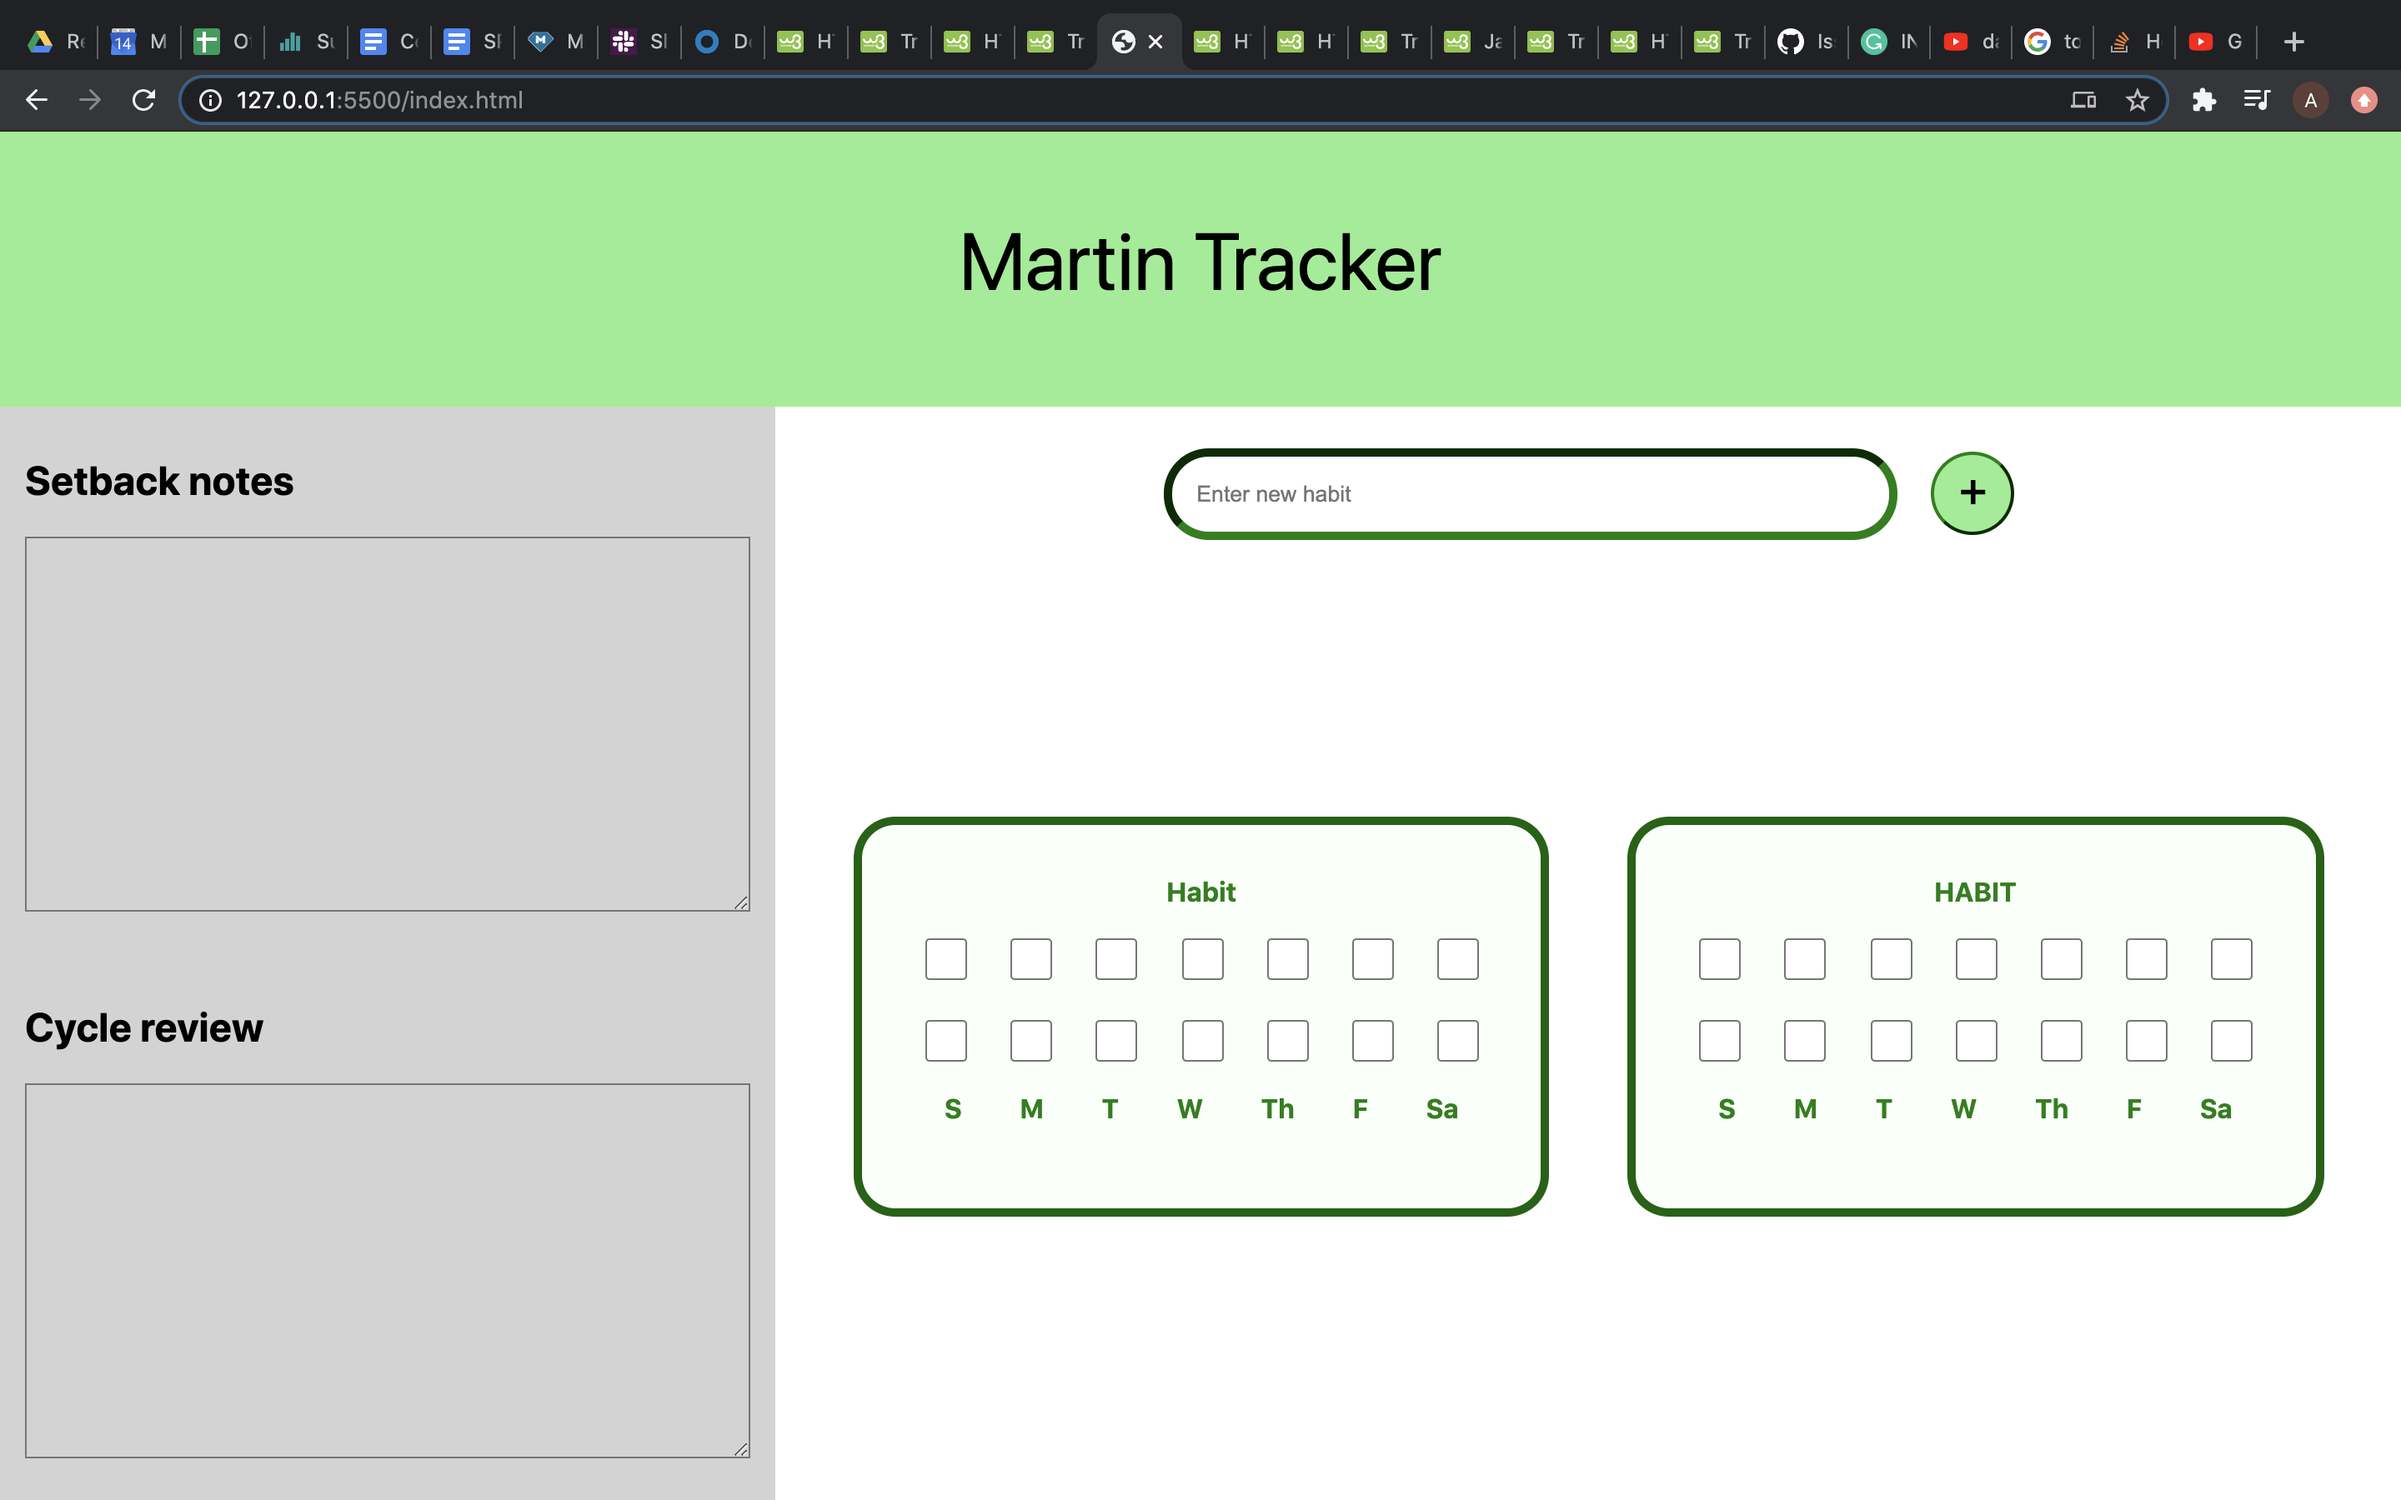
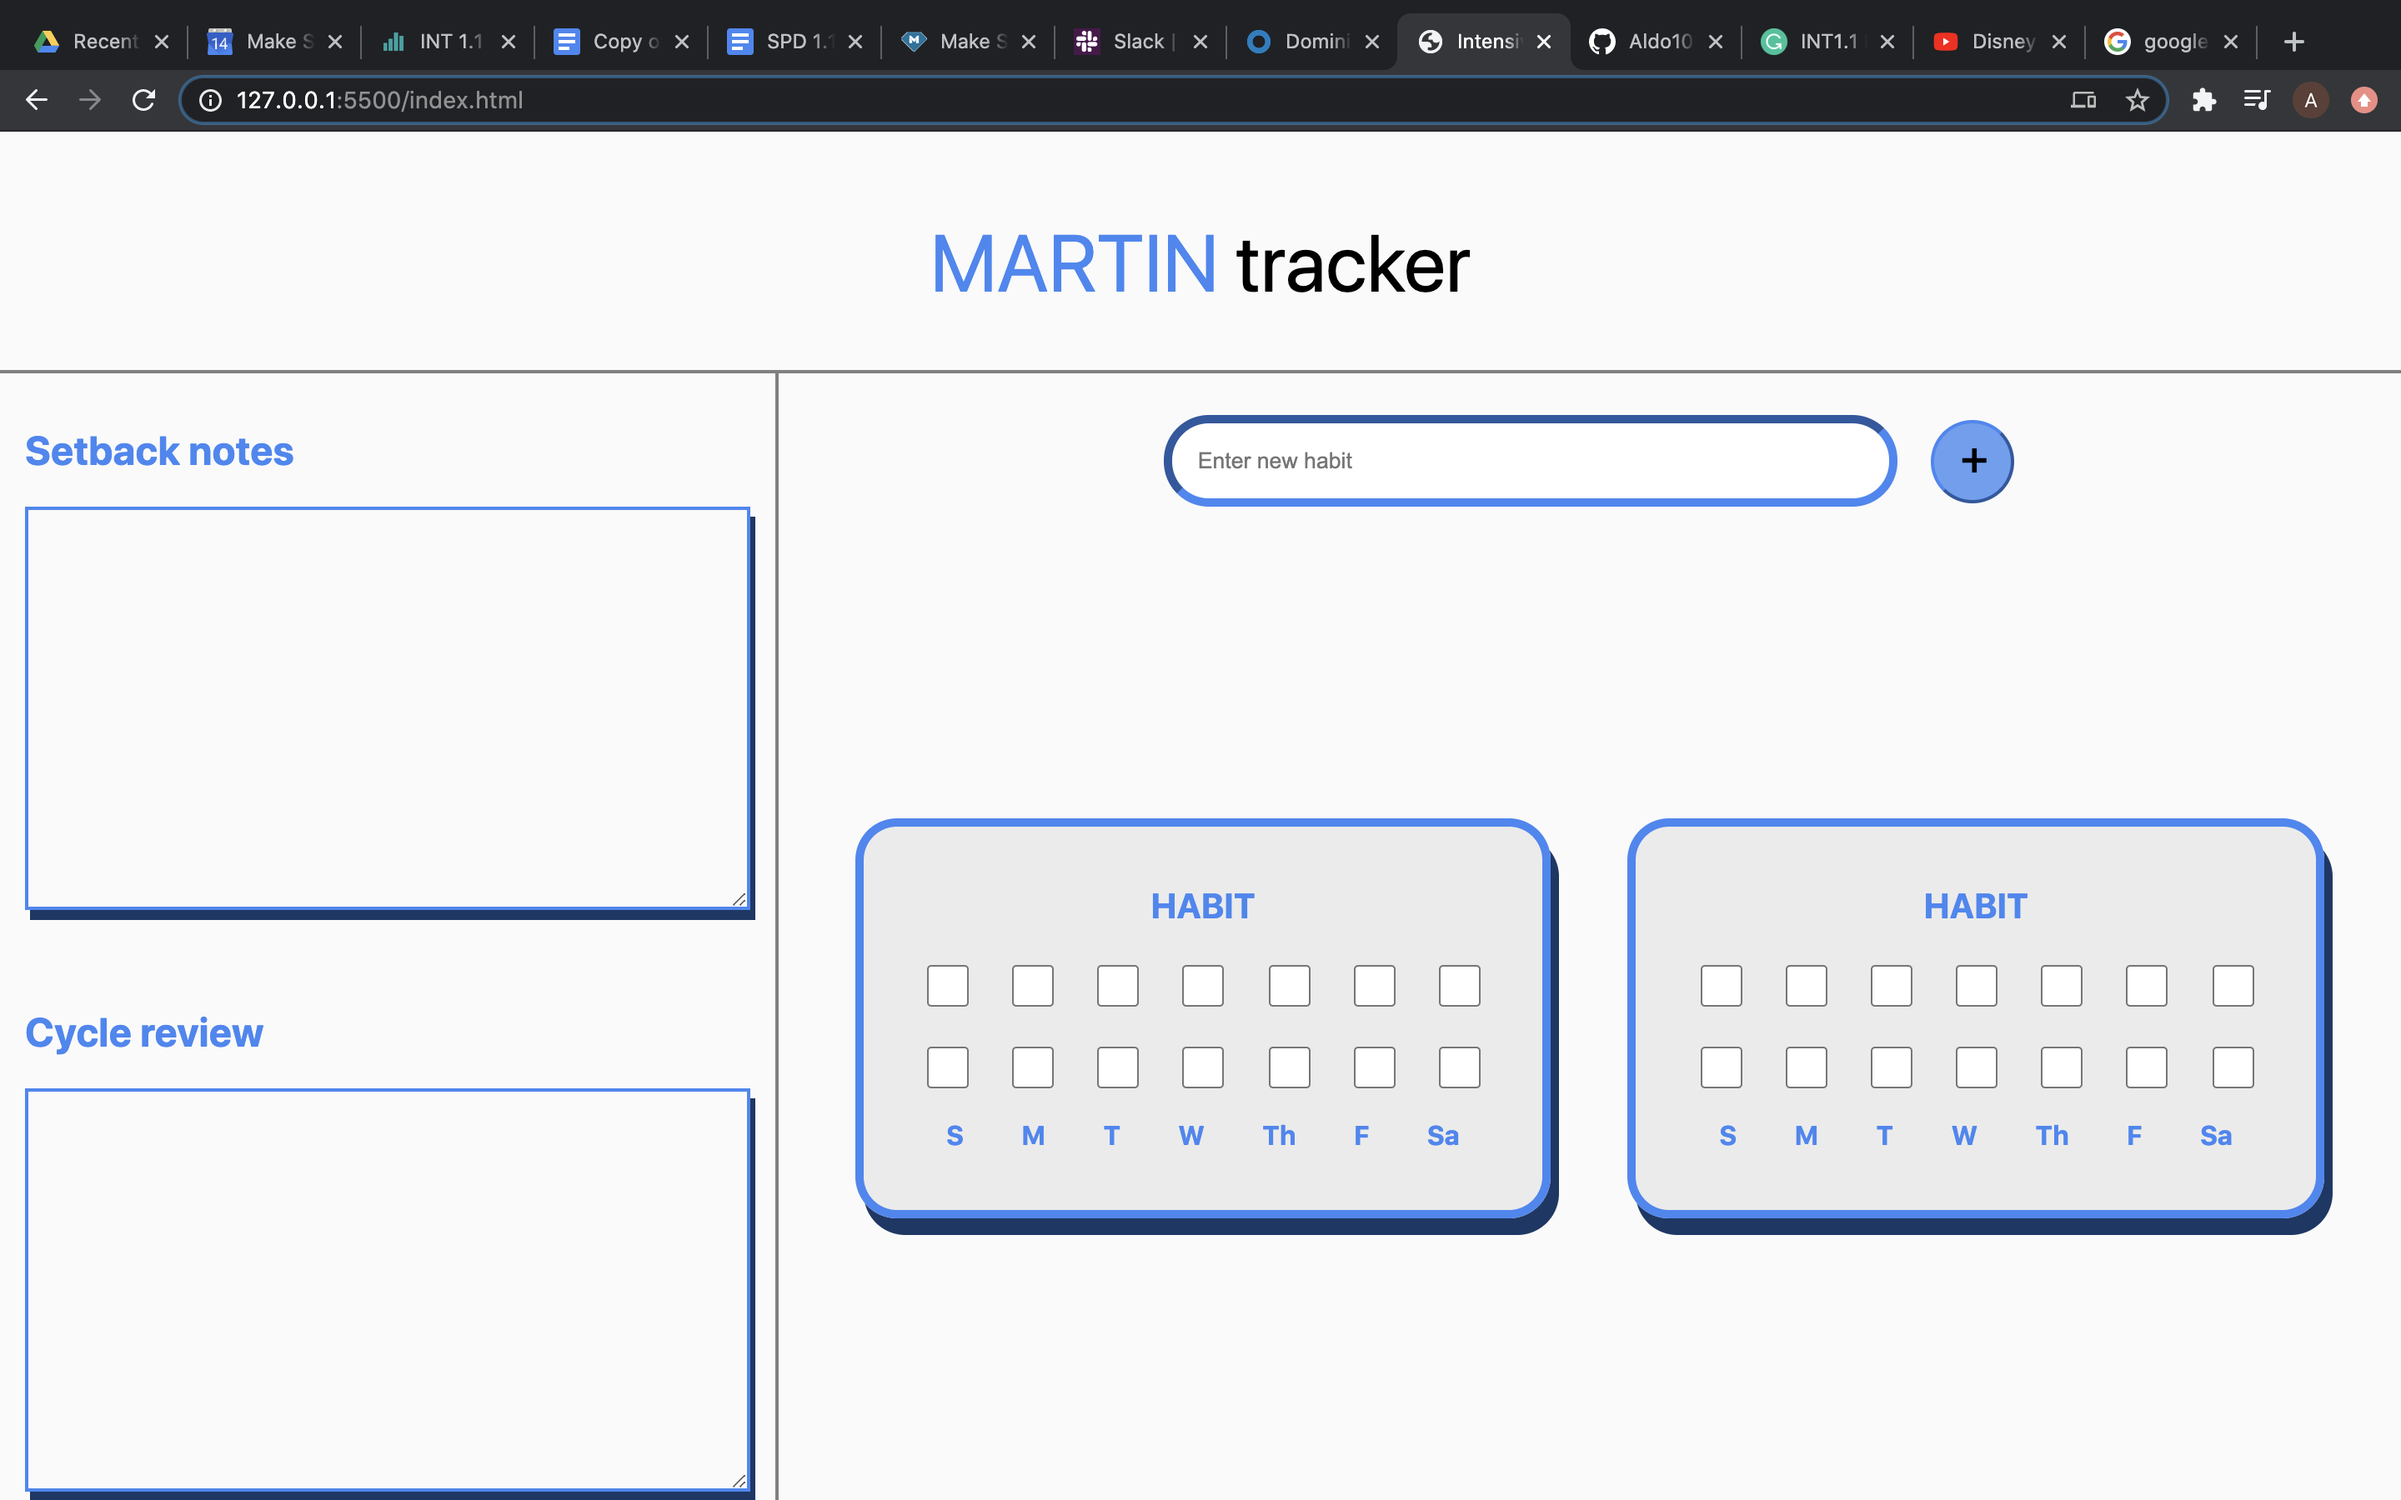
edited color scheme

diff --git a/style.css b/style.css
@@ -1,18 +1,21 @@
 body{
     margin: 0px;
     font-family: -apple-system, BlinkMacSystemFont, 'Segoe UI', Roboto, Oxygen, Ubuntu, Cantarell, 'Open Sans', 'Helvetica Neue', sans-serif;
-
+    /* background-color: ; */
 }
 /**************************************************************** 
     Stylizing navbar
 *****************************************************************/
 nav{
-    background-color: lightgreen;
-    padding: 20px;
-    min-height: 15vh; 
+    background-color: #fafafa;
+
+    padding: 10px;
+    max-height: 15vh; 
     display: flex;
-    flex-direction: column;
+    flex-direction: row;
     justify-content: center;
+    border: solid gray;
+    border-width: 0px 0px 2px 0px;
 }
 
 nav>h1{
@@ -21,7 +24,11 @@ nav>h1{
     width: auto;
     font-size: 3em;
     font-weight: 400;   
-    /* color: green; */
+    color: black;
+}
+
+#martin{
+    color: #4285F4;
 }
 
 
@@ -31,7 +38,7 @@ nav>h1{
 main{
     display: flex;
     flex-direction: row;
-    min-height: 80vh;
+    min-height: 85vh;
     height: auto;
 }
 
@@ -40,12 +47,14 @@ main{
 *****************************************************************/
 
 sidenav{
-    background-color: lightgray;
+    background-color: #fafafa;
     width: 33%;
     height: auto;
     display: flex;
     flex-direction: column;
     justify-content: stretch;
+    border: solid gray;
+    border-width: 0px 2px 0px 0px
 }
 
 sidenav > div{
@@ -55,12 +64,16 @@ sidenav > div{
     display: flex;
     flex-direction: column;
     justify-content: center;
+    color: #4285F4;
 }
 
 textarea{
     min-height: 70%;
     background-color: rgba(0,0,0,0);
-    font-size: 1.5em;
+    font-size: 1.3em;
+    color: white;
+    border: solid 2px #4285F4;
+    box-shadow: 3px 6px #193766;
 
 }
 
@@ -69,7 +82,7 @@ textarea{
 *****************************************************************/
 
 content{
-    /* background-color: aqua; */
+    background-color: #fafafa;
     width: 67%;
     /* height: auto; */
     padding: 15px;
@@ -82,23 +95,23 @@ content{
 
 
 .tracker{
-    background-color: rgba(203, 255, 203, 0.1);
+    background-color: #4286f40c;
     padding:15px;
     margin: 15px;
     width: 40%;
     height: 200px;
-    border: solid 5px darkgreen;
-    color: green;
+    border: solid 5px #4285F4;
+    color: #4285F4;
     font-weight: bold;
-    border-radius: 25px;;
+    border-radius: 25px;
+    box-shadow: 5px 10px #193766;
 }
 
 .tracker > p{
     text-align: center;
+    font-size: 1.3em;
 }
-.tracker > p{
-    font-size: 1em;
-}
+
 
 .marker-row{
     display: flex;
@@ -107,7 +120,7 @@ content{
 }
 
 .marker-row > input{
-    background-color: #fff;
+    background-color: #fafafa;
     border: 1px solid #ccc;
     border-radius: 50%;
     cursor: pointer;
@@ -140,8 +153,9 @@ content{
     padding: 15px;
     margin: 10px;
     border-radius: 30px;
-    border-color: green;
+    border-color: #4285F4;
     border-width: 5px;
+    /* background-color: lightgreen;   */
 }
 #new-habit-section > button{
     padding: 15px;
@@ -154,8 +168,8 @@ content{
     flex-direction: column;
     justify-content: center;
     align-self: center;
-    background-color: lightgreen;
-    border-color: green;
+    background-color: #679df3;
+    border-color: #4285F4;
 }
 
 

diff --git a/script.js b/script.js
@@ -7,39 +7,17 @@ function createNewHabit() {
     const habitName = get_habit_name.value
     console.log(habitName)
 
+    // Creating empty component with same Html as tracker
     var emptyHabit = document.getElementById('tracker').innerHTML
-
     // Creating the Div
     var trackerDiv = document.createElement('div')
+    // assigning trackerDiv class name "tracker" so that CSS can be properly implemented
     trackerDiv.className = "tracker";
+    // asigning trackerDiv same HTML as emtpy div to properly display component
     trackerDiv.innerHTML = emptyHabit
-
-        //Create <p> to display the habit
-        // var showHabitName = document.createElement('p')
-        // showHabitName = document.createTextNode(habitName)
-        // trackerDiv.appendChild(showHabitName)
-
-        // // Create <div class='marker-row'>
-        // var makerRowDiv = document.createElement('div')
-        //     for (i = 1; i < 8; i++) {
-        //         var input = document.createElement('input')
-        //         input.setAttribute("type", "checkbox")
-        //         makerRowDiv.appendChild(input)
-        //     }
-
-        // // appending makerRowDiv into trackerDiv
-        // trackerDiv.appendChild(makerRowDiv)
-
-
-
-
 
     // append component into content
     document.getElementById("content").appendChild(trackerDiv);
-
-
-
-
 }
 
 

diff --git a/index.html b/index.html
@@ -6,7 +6,7 @@
     </head>
     <body>
         <nav>
-            <h1>Martin Tracker</h1>
+            <h1><span id='martin'>MARTIN</span> tracker</h1>
         </nav>
         <main>
             <sidenav>
@@ -27,7 +27,7 @@
                 </div>
                 
                 <div class='tracker' id='tracker'>
-                    <p>  Habit </p>
+                    <p>  HABIT </p>
                     <div class='marker-row'>
                         <input type='checkbox'>
                         <input type='checkbox'>
